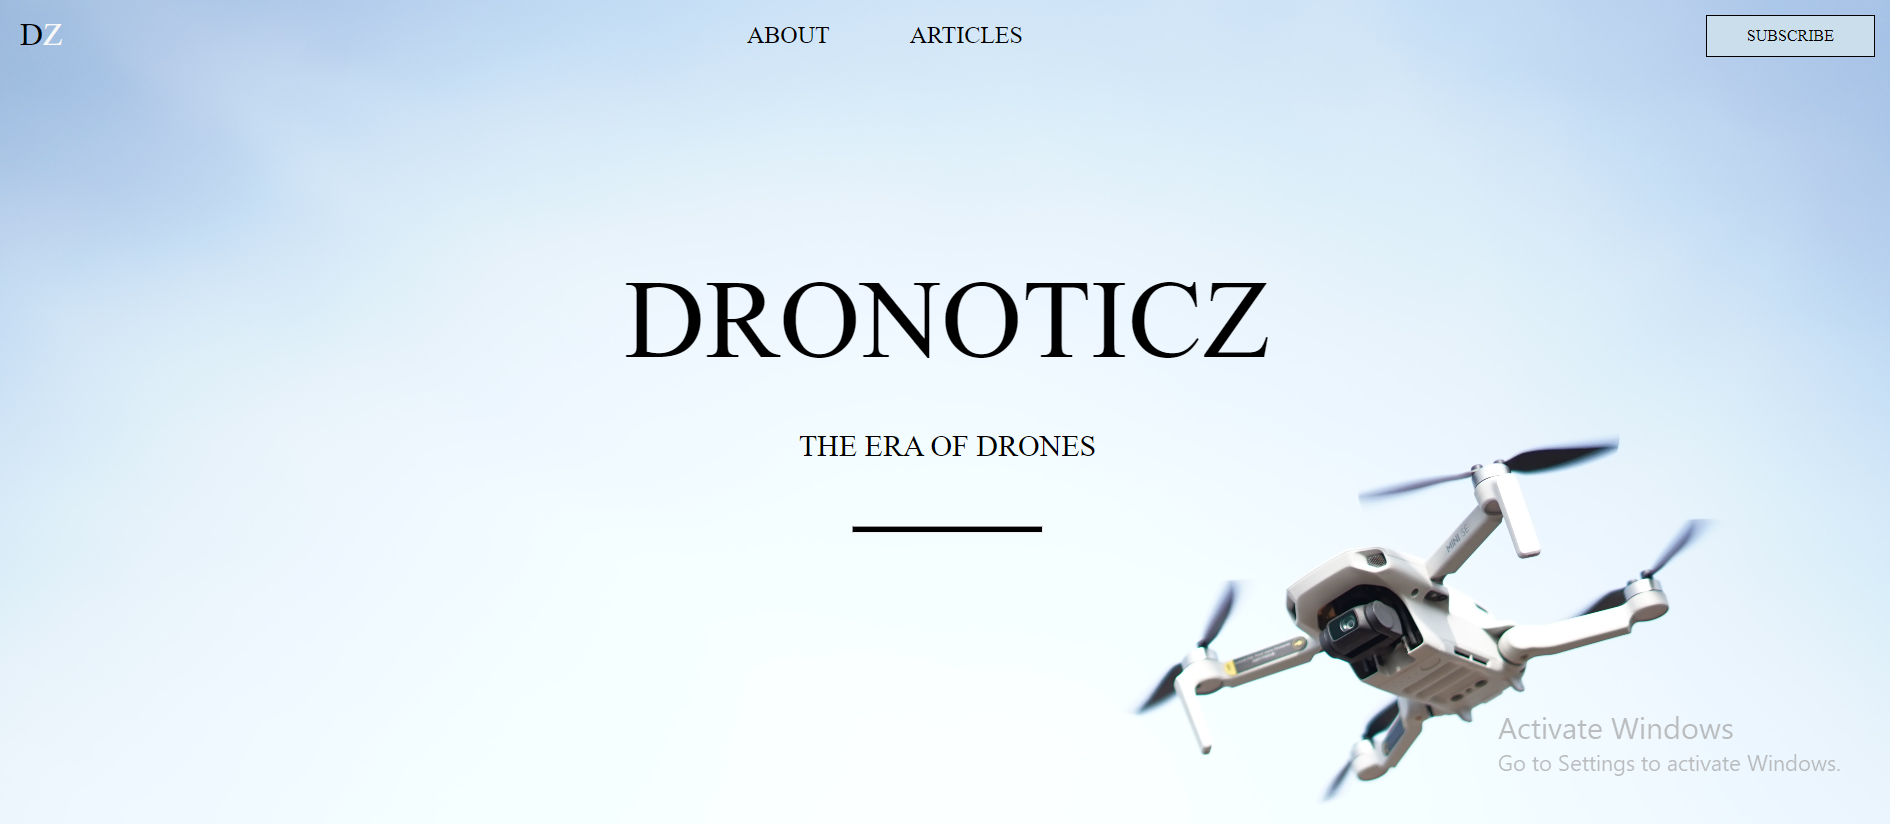
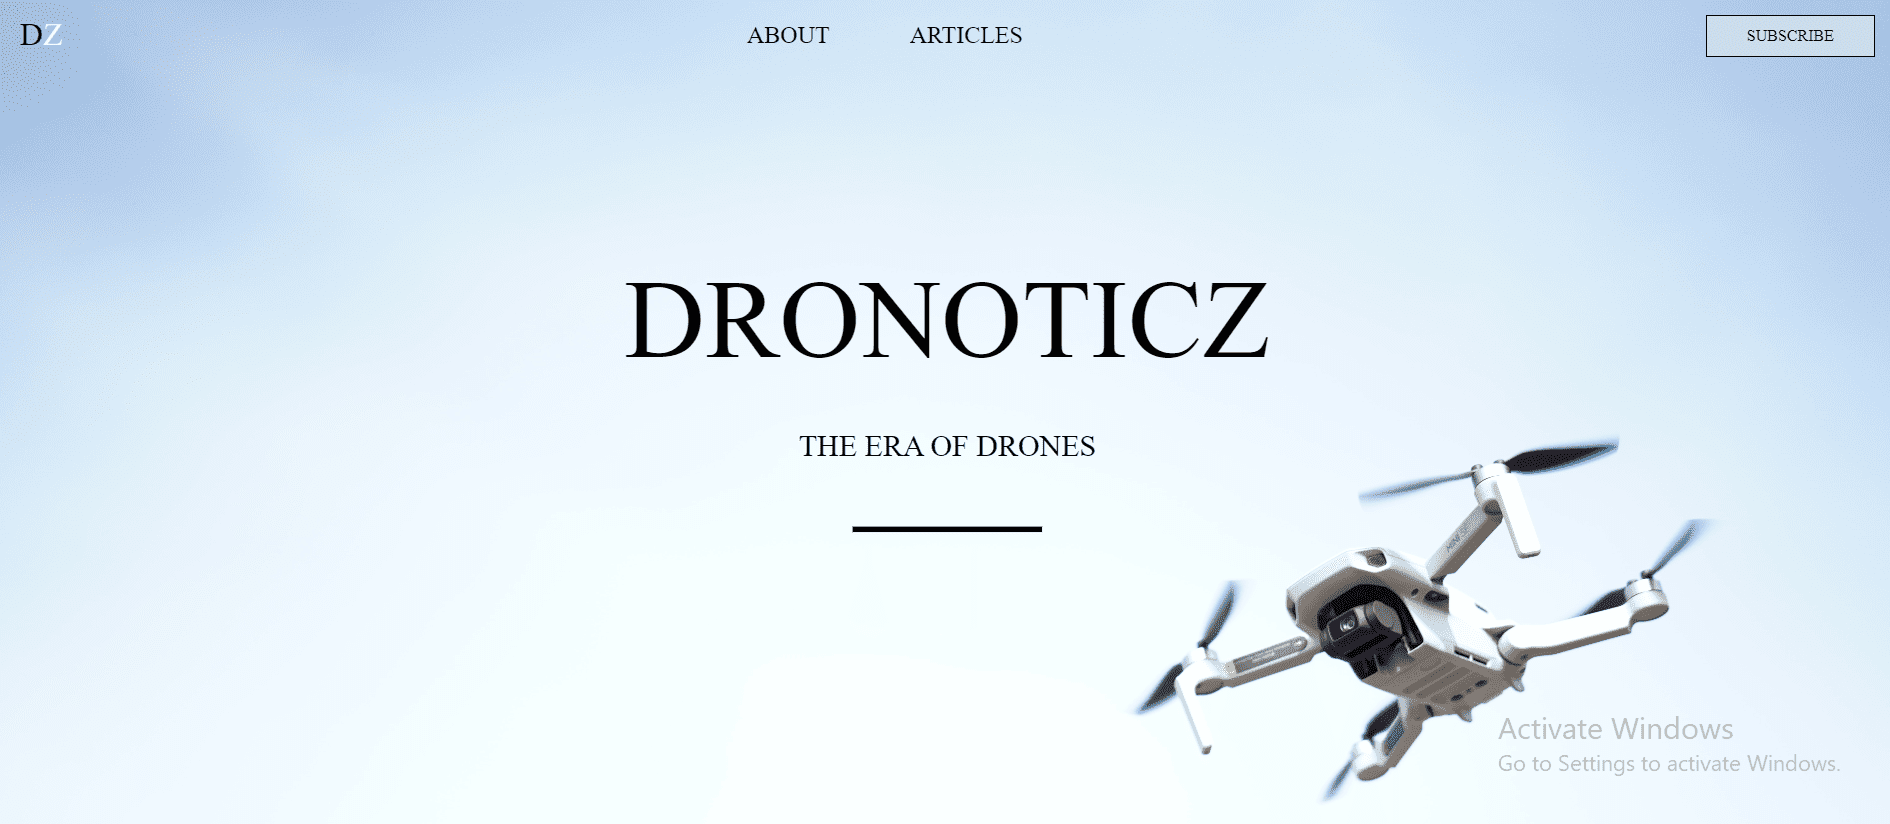
changed background.

diff --git a/index.html b/index.html
@@ -326,8 +326,8 @@
       </div>
       <div class="project-item right">
 
-        <svg xmlns="http://www.w3.org/2000/svg" xmlns:xlink="http://www.w3.org/1999/xlink" version="1.1"
-          width="180" height="200" viewBox="0 0 3223.1508570137557 1260.802342127719">
+        <svg xmlns="http://www.w3.org/2000/svg" xmlns:xlink="http://www.w3.org/1999/xlink" version="1.1" width="180"
+          height="200" viewBox="0 0 3223.1508570137557 1260.802342127719">
 
           <g transform="scale(11.157542850687777) translate(10, 10)">
             <defs id="SvgjsDefs6114"></defs>
@@ -421,21 +421,22 @@
         <p>WORK</p>
         <p id="time">2006-PRESENT</p>
       </div>
-      <h3 id="h">3 years of React and Java</h3>
-      <p id="p">Default. A blog site serves as an online platform where individuals,
-        businesses, or organizations share a diverse range of content, providing insights, information, and
-        perspectives
-        on various topics. These digital spaces have become instrumental in fostering communication and community
-        engagement. A well-designed blog site often features a user-friendly interface, allowing readers to easily
-        navigate through a collection of articles, opinion pieces, and multimedia content. It serves as a dynamic
-        space
-        for writers to express their thoughts, expertise, and creativity while fostering interaction through comments
-        and
-        social media integration. Whether focusing on lifestyle, technology, business, or personal narratives, a blog
-        site
-        acts as a virtual forum, connecting writers with their audience and creating a rich tapestry of information
-        and
-        ideas on the vast landscape of the internet."</p>
+      <h3 id="h">5 years of JavaScript and Java</h3>
+      <p id="p">
+        My journey into software development began at school, where I learn HTML, CSS, JavaScript, and jQuery.
+        Subsequently, I also learn PHP for server-side applications, followed Java for Object-Oriented Programming
+        (OOP), data structures, algorithms, and mobile application development. We where also taught .NET framework for
+        desktop application development, concluding with database design and SQL.
+
+        As my coding journey progressed, I encountered various technological stacks. Notably, the MERN stack, comprising
+        MongoDB, Express.js, React, and Node.js, captivated my attention and became a focal point of my development for
+        a substantial period.
+
+        Subsequently, my exploration led me to adopt the Spring Boot framework, further bolstering my toolkit for the
+        construction of robust and scalable applications. This ongoing journey has not only expanded my technical
+        proficiency but has also cultivated a profound appreciation for the dynamic and evolving nature of software
+        development.
+      </p>
       <img id="imgUrl" src="" />
     </div>
   </div>

diff --git a/index.js b/index.js
@@ -23,7 +23,7 @@ let projects = [{
 },
 {
   h: "A website for people to create and share surveys.",
-  p: "",
+  p: "This is a react project where users can create surveys and share them with thier audiences. The main objective for this project was to improve my design skills. This is a react project and when ever I build a project to improve my skills I make sure to learn atleast one new thing about the technologies I'm using and apply them in the project.",
   imgUrl: "./assets/portfolio-images/savvy.png",
   projectUrl: "https://savvvy.netlify.app/",
   timeframe: "2023-Present"

diff --git a/css/sections/projects.css b/css/sections/projects.css
@@ -57,13 +57,14 @@
 .project-description #h {
   color: black;
   font-weight: bolder;
-  font-size: 1rem;
+  font-size: 3rem;
   padding: 1rem 0rem 1rem 0rem;
 }
 
 .project-description #p {
   color: black;
-  line-height: 1.2rem;
+  line-height: 1.8rem;
+  font-size: 1.5rem;
 }
 
 #imgUrl {

diff --git a/css/sections/home.css b/css/sections/home.css
@@ -1,5 +1,5 @@
 .home {
-  background-image: url("../../assets/portfolio-images/background-no\ background.png");
+  background-image: url("../../assets/green\ leaf\ small.jpg");
   width: auto;
   height: 100vh;
   background-size: cover;

diff --git a/css/sections/about.css b/css/sections/about.css
@@ -46,6 +46,7 @@
   font-size: 1.05rem;
   line-height: normal;
   opacity: 0.8;
+  font-size: 1.5rem;
 }
 
 .about__content__button {
